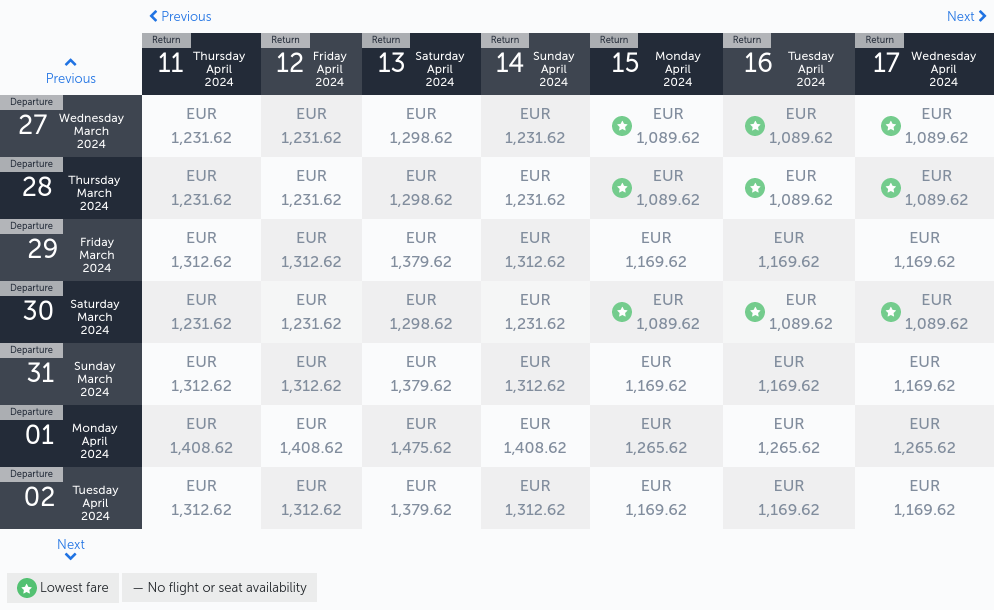
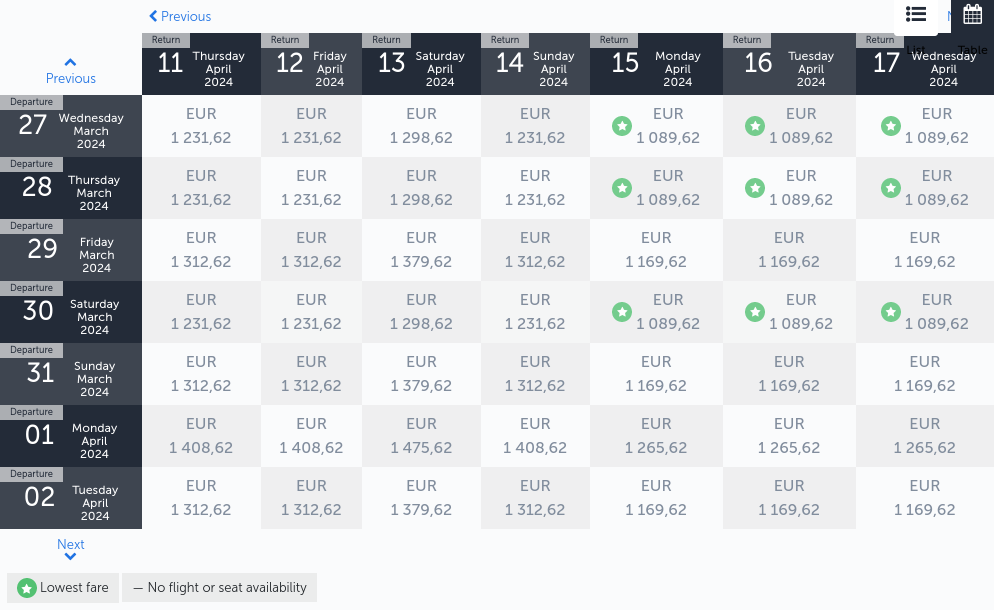
removing img from table

diff --git a/tests/taiwan.spec.ts b/tests/taiwan.spec.ts
@@ -49,6 +49,7 @@ test('emirates', async ({ page }) => {
     await page.evaluate(() => {
         document.querySelectorAll(".visually-hidden").forEach(el => el.remove());
         document.querySelectorAll(".carrier-imposed-span").forEach(el => el.remove());
+        document.querySelectorAll("table img").forEach(el => el.remove());
     });
 
     createMarkdown(`${scrapesDirectory}/emirates.md`, `<table>${await gridResultPage.locator("table").innerHTML()}</table><img src="emirates.png"></img>`, { handleTables: true });

diff --git a/scrapes/taiwan/turkish-airlines.md b/scrapes/taiwan/turkish-airlines.md
@@ -2,13 +2,13 @@
 | --- | --- | --- | --- | --- | --- | --- | --- |
 | Previous | Return<br><br>11 Thursday April 2024 | Return<br><br>12 Friday April 2024 | Return<br><br>13 Saturday April 2024 | Return<br><br>14 Sunday April 2024 | Return<br><br>15 Monday April 2024 | Return<br><br>16 Tuesday April 2024 | Return<br><br>17 Wednesday April 2024 |
 | --- | --- | --- | --- | --- | --- | --- | --- |
-| Departure<br><br>27 Wednesday March 2024 | EUR1,231.62 | EUR1,231.62 | EUR1,298.62 | EUR1,231.62 | EUR1,089.62 | EUR1,089.62 | EUR1,089.62 |
-| Departure<br><br>28 Thursday March 2024 | EUR1,231.62 | EUR1,231.62 | EUR1,298.62 | EUR1,231.62 | EUR1,089.62 | EUR1,089.62 | EUR1,089.62 |
-| Departure<br><br>29 Friday March 2024 | EUR1,312.62 | EUR1,312.62 | EUR1,379.62 | EUR1,312.62 | EUR1,169.62 | EUR1,169.62 | EUR1,169.62 |
-| Departure<br><br>30 Saturday March 2024 | EUR1,231.62 | EUR1,231.62 | EUR1,298.62 | EUR1,231.62 | EUR1,089.62 | EUR1,089.62 | EUR1,089.62 |
-| Departure<br><br>31 Sunday March 2024 | EUR1,312.62 | EUR1,312.62 | EUR1,379.62 | EUR1,312.62 | EUR1,169.62 | EUR1,169.62 | EUR1,169.62 |
-| Departure<br><br>01 Monday April 2024 | EUR1,408.62 | EUR1,408.62 | EUR1,475.62 | EUR1,408.62 | EUR1,265.62 | EUR1,265.62 | EUR1,265.62 |
-| Departure<br><br>02 Tuesday April 2024 | EUR1,312.62 | EUR1,312.62 | EUR1,379.62 | EUR1,312.62 | EUR1,169.62 | EUR1,169.62 | EUR1,169.62 |
+| Departure<br><br>27 Wednesday March 2024 | EUR1 231,62 | EUR1 231,62 | EUR1 298,62 | EUR1 231,62 | EUR1 089,62 | EUR1 089,62 | EUR1 089,62 |
+| Departure<br><br>28 Thursday March 2024 | EUR1 231,62 | EUR1 231,62 | EUR1 298,62 | EUR1 231,62 | EUR1 089,62 | EUR1 089,62 | EUR1 089,62 |
+| Departure<br><br>29 Friday March 2024 | EUR1 312,62 | EUR1 312,62 | EUR1 379,62 | EUR1 312,62 | EUR1 169,62 | EUR1 169,62 | EUR1 169,62 |
+| Departure<br><br>30 Saturday March 2024 | EUR1 231,62 | EUR1 231,62 | EUR1 298,62 | EUR1 231,62 | EUR1 089,62 | EUR1 089,62 | EUR1 089,62 |
+| Departure<br><br>31 Sunday March 2024 | EUR1 312,62 | EUR1 312,62 | EUR1 379,62 | EUR1 312,62 | EUR1 169,62 | EUR1 169,62 | EUR1 169,62 |
+| Departure<br><br>01 Monday April 2024 | EUR1 408,62 | EUR1 408,62 | EUR1 475,62 | EUR1 408,62 | EUR1 265,62 | EUR1 265,62 | EUR1 265,62 |
+| Departure<br><br>02 Tuesday April 2024 | EUR1 312,62 | EUR1 312,62 | EUR1 379,62 | EUR1 312,62 | EUR1 169,62 | EUR1 169,62 | EUR1 169,62 |
 | Next |
 | Lowest fare — No flight or seat availability |     |     |     |     |     |     |     |
 

diff --git a/scrapes/taiwan/emirates.md b/scrapes/taiwan/emirates.md
@@ -1,6 +1,10 @@
 |     |     |     |     |     |     |     |     |
 | --- | --- | --- | --- | --- | --- | --- | --- |
+<<<<<<< HEAD
 | Inbound![](https://fly2.ekstatic.net/Images/farebrand_refresh/arrow-down@2x.png)<br><br>TPE - BRU<br><br>Economy<br><br>Inbound Taipei to Taipei in Economy Class | **Wednesday**<br><br>27 March | **Thursday**<br><br>28 March | **Friday**<br><br>29 March | **Saturday**<br><br>30 March | **Sunday**<br><br>31 March | **Monday**<br><br>1 April | **Tuesday**<br><br>2 April |
+=======
+| Inbound<br><br>TPE - BRU<br><br>Economy<br><br>Inbound Taipei to Taipei in Economy Class | **Wednesday**<br><br>27 March | **Thursday**<br><br>28 March | **Friday**<br><br>29 March | **Saturday**<br><br>30 March | **Sunday**<br><br>31 March | **Monday**<br><br>1 April | **Tuesday**<br><br>2 April |
+>>>>>>> 8c3ab76 (removing img from table)
 | **Thursday**<br><br>11 April | from**EUR 1,033** | from**EUR 1,308** | from**EUR 1,333** | from**EUR 1,333** | from**EUR 1,308** | from**EUR 1,033** | from**EUR 1,033** |
 | **Friday**<br><br>12 April | from**EUR 1,033** | from**EUR 1,308** | from**EUR 1,333** | from**EUR 1,333** | from**EUR 1,308** | from**EUR 1,033** | from**EUR 1,033** |
 | **Saturday**<br><br>13 April | from**EUR 1,058** | from**EUR 1,333** | from**EUR 1,358** | from**EUR 1,358** | from**EUR 1,333** | from**EUR 1,058** | from**EUR 1,058** |
